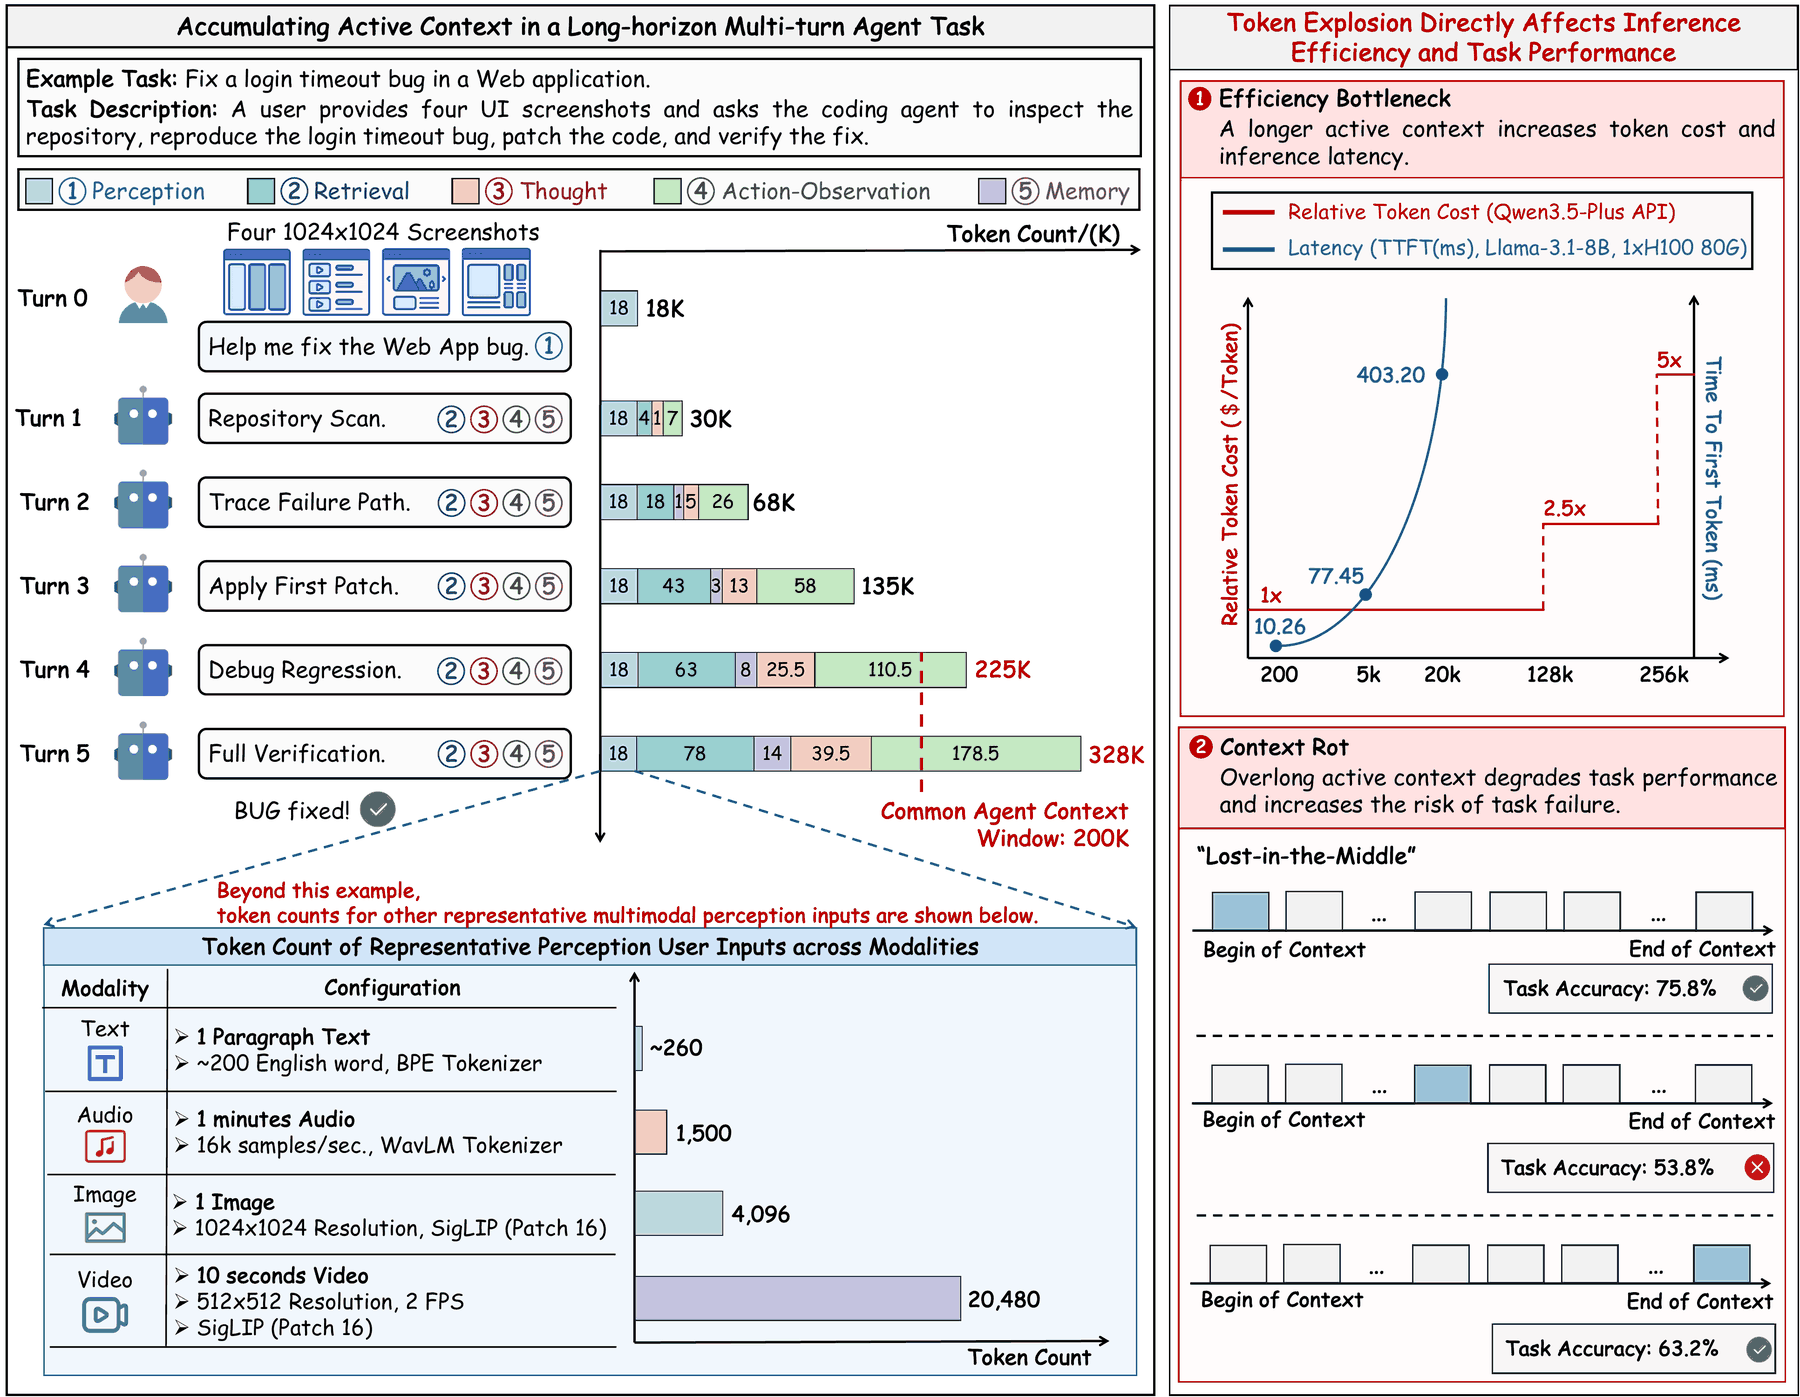
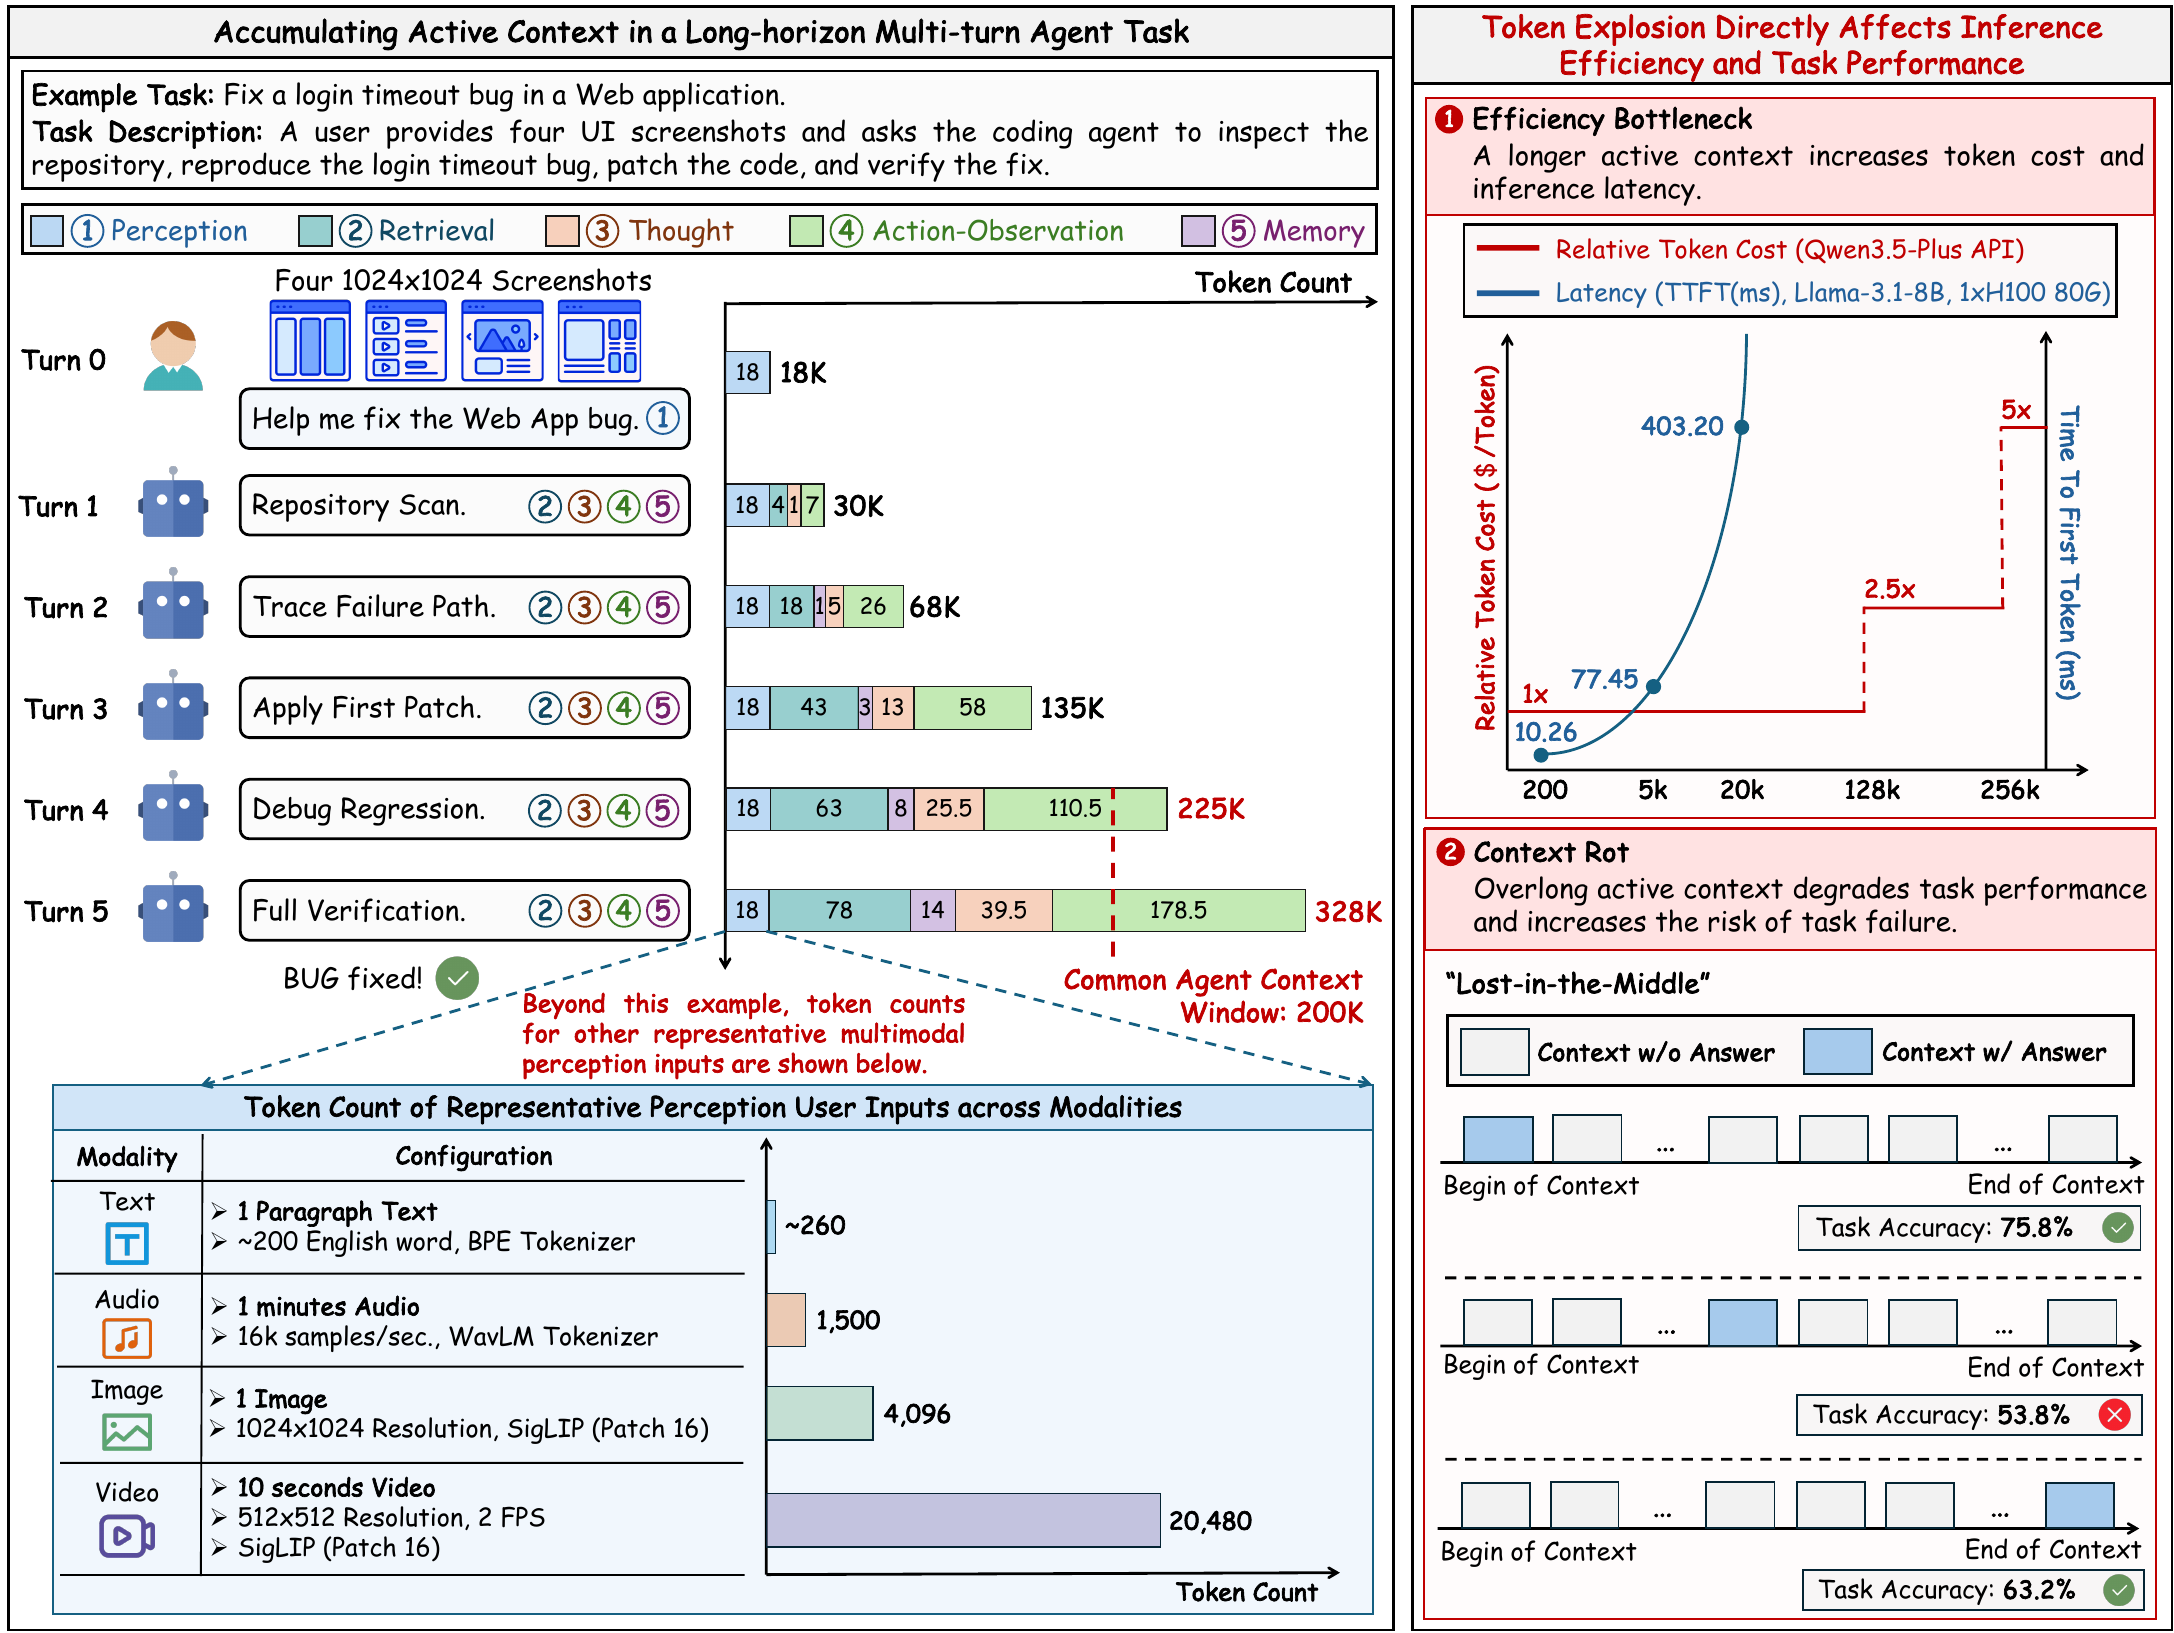
Sync README and figures with updated survey

Changed region(s): [[0.0, 0.0, 1.0, 1.0], [0.84, 0.2462, 0.9644, 0.4309], [0.7467, 0.2462, 0.8089, 0.277]]

diff --git a/README.md b/README.md
@@ -42,6 +42,7 @@ Token compression addresses this bottleneck by constructing a compact, task-rele
 - [Highlights](#-highlights)
 - [Motivation](#-motivation)
 - [Introduction](#-introduction)
+- [Problem Formulation](#-problem-formulation)
 - [Tag Legend](#-tag-legend)
 - [Perception Compression](#-perception-compression)
   - [Transformation](#-transformation)
@@ -53,11 +54,16 @@ Token compression addresses this bottleneck by constructing a compact, task-rele
   - [Thought](#-thought-token-compression)
   - [Action-Observation](#-action-observation-token-compression)
   - [Memory](#-memory-token-compression)
+- [Discussion](#-discussion)
+  - [Application Scenarios](#-application-scenarios)
+  - [Challenges and Future Directions](#-challenges-and-future-directions)
 - [Citation](#-citation)
 - [Acknowledgements](#-acknowledgements)
 - [Contact](#-contact)
 
 ## 🚀 Introduction
+
+Tokens are the fundamental interactive units through which foundation models represent inputs, maintain contexts, and support reasoning. The AI agent lifecycle unifies the token paradigms of LLMs and MLLMs: an agent processes current perceptual inputs while accumulating heterogeneous workflow tokens introduced during execution, including retrieved evidence, intermediate reasoning traces, action-observation histories, and memory records. Repeated execution makes both the active context and cumulative token cost grow rapidly, giving rise to token explosion.
 
 ### Agent-Centric Taxonomy
 
@@ -68,7 +74,30 @@ This survey follows where tokens enter and function in an agent's active context
 | Category | Operates on | Source of Redundancy | Objective |
 |---|---|---|---|
 | 👁️ **Perception Compression** | Current input-side perceptual tokens | Representation-level redundancy in raw inputs | Reduce perceptual token cost while preserving task-relevant input information |
-| 🧠 **Semantic Compression** | Workflow contexts accumulated during execution | Redundancy induced by workflow execution and context accumulation | Preserve decision-relevant information with fewer active tokens |
+| 🧠 **Semantic Compression** | Workflow context tokens C_t accumulated during agent execution | Redundancy induced by retrieval, reasoning, tool interaction, observations, and memory | Preserve decision-relevant information with fewer active tokens |
+
+<p align="center"><img src="figs/organization.png" alt="Survey organization" width="72%"></p>
+
+The survey is organized around the AI agent lifecycle: problem formulation, perception compression, semantic compression, and discussion of representative scenarios, challenges, and future directions.
+
+## 🧮 Problem Formulation
+
+At step t, the active context provided to the foundation model can be decomposed as:
+
+```
+X_t = <S, Q, P, C_t>
+```
+
+Here, S denotes system tokens, Q denotes the user query or instruction, P denotes perceptual tokens encoded from the current multimodal input, and C_t denotes the workflow context accumulated at step t.
+
+Token compression seeks a function f that reduces the active context while preserving task utility under execution-cost, context-window, and deployment constraints:
+
+```
+f* = argmax_f U(f, Q)
+subject to R_exec(f) <= B, R_t(f) <= W, for all t.
+```
+
+This formulation emphasizes that compression is not simple sequence shortening. A useful compressed context must retain task-relevant evidence, reasoning cues, executable constraints, and state information needed for reliable multi-step execution.
 
 ## 🏷️ Tag Legend
 
@@ -613,6 +642,31 @@ Semantic compression reduces workflow context from retrieval, reasoning, interac
 
 ---
 
+## 🧭 Discussion
+
+### Application Scenarios
+
+<p align="center"><img src="figs/scenarios.png" alt="Representative application scenarios" width="96%"></p>
+
+- **Human-AI interaction.** Perception compression reduces text, image, video, and audio inputs while preserving user intent and task-relevant information for efficient, potentially real-time interaction.
+- **Human-agent collaboration.** Perception and semantic compression jointly manage retrieval evidence, thought traces, action-observation histories, and memory records so that long-horizon tasks retain executable state.
+- **Multi-agent collaboration.** Semantic compression turns local contexts into compact inter-agent messages, reducing communication overhead while preserving the information required for coordination.
+
+### Challenges and Future Directions
+
+<p align="center"><img src="figs/future_directions.png" alt="Challenges and future directions" width="92%"></p>
+
+| Direction | Summary |
+|---|---|
+| Agent-oriented compression | Move from component-level token reduction to lifecycle-level compression for long-horizon execution. |
+| Multimodal token utility | Model cross-modal token utility across the full active context rather than optimizing each modality in isolation. |
+| Unified evaluation | Establish unified metrics and strong baselines for fair comparison. |
+| Dedicated benchmarks | Evaluate compression on long-horizon agent tasks and dynamic active contexts. |
+| Hardware-friendly design | Advance hardware-oriented compression for real acceleration. |
+| Safety and verification | Preserve critical context, source provenance, tool constraints, and safety-related evidence. |
+
+---
+
 ## 📌 Citation
 
 If you find our paper or this repository helpful, please consider citing:
@@ -633,7 +687,7 @@ We thank the authors of the surveyed works and the open-source community members
 
 ## 📬 Contact
 
-For questions, corrections, or paper additions, please [open an issue](https://github.com/XCJinggai/Awesome_Token_Compression_in_AI_Agents_Era/issues) or contact the maintainer [XCJinggai](https://github.com/XCJinggai).
+For questions, corrections, or paper additions, please [open an issue](https://github.com/XCJinggai/Awesome_Token_Compression_in_AI_Agent_Lifecycle/issues) or contact the maintainer [XCJinggai](https://github.com/XCJinggai).
 
 ---
 